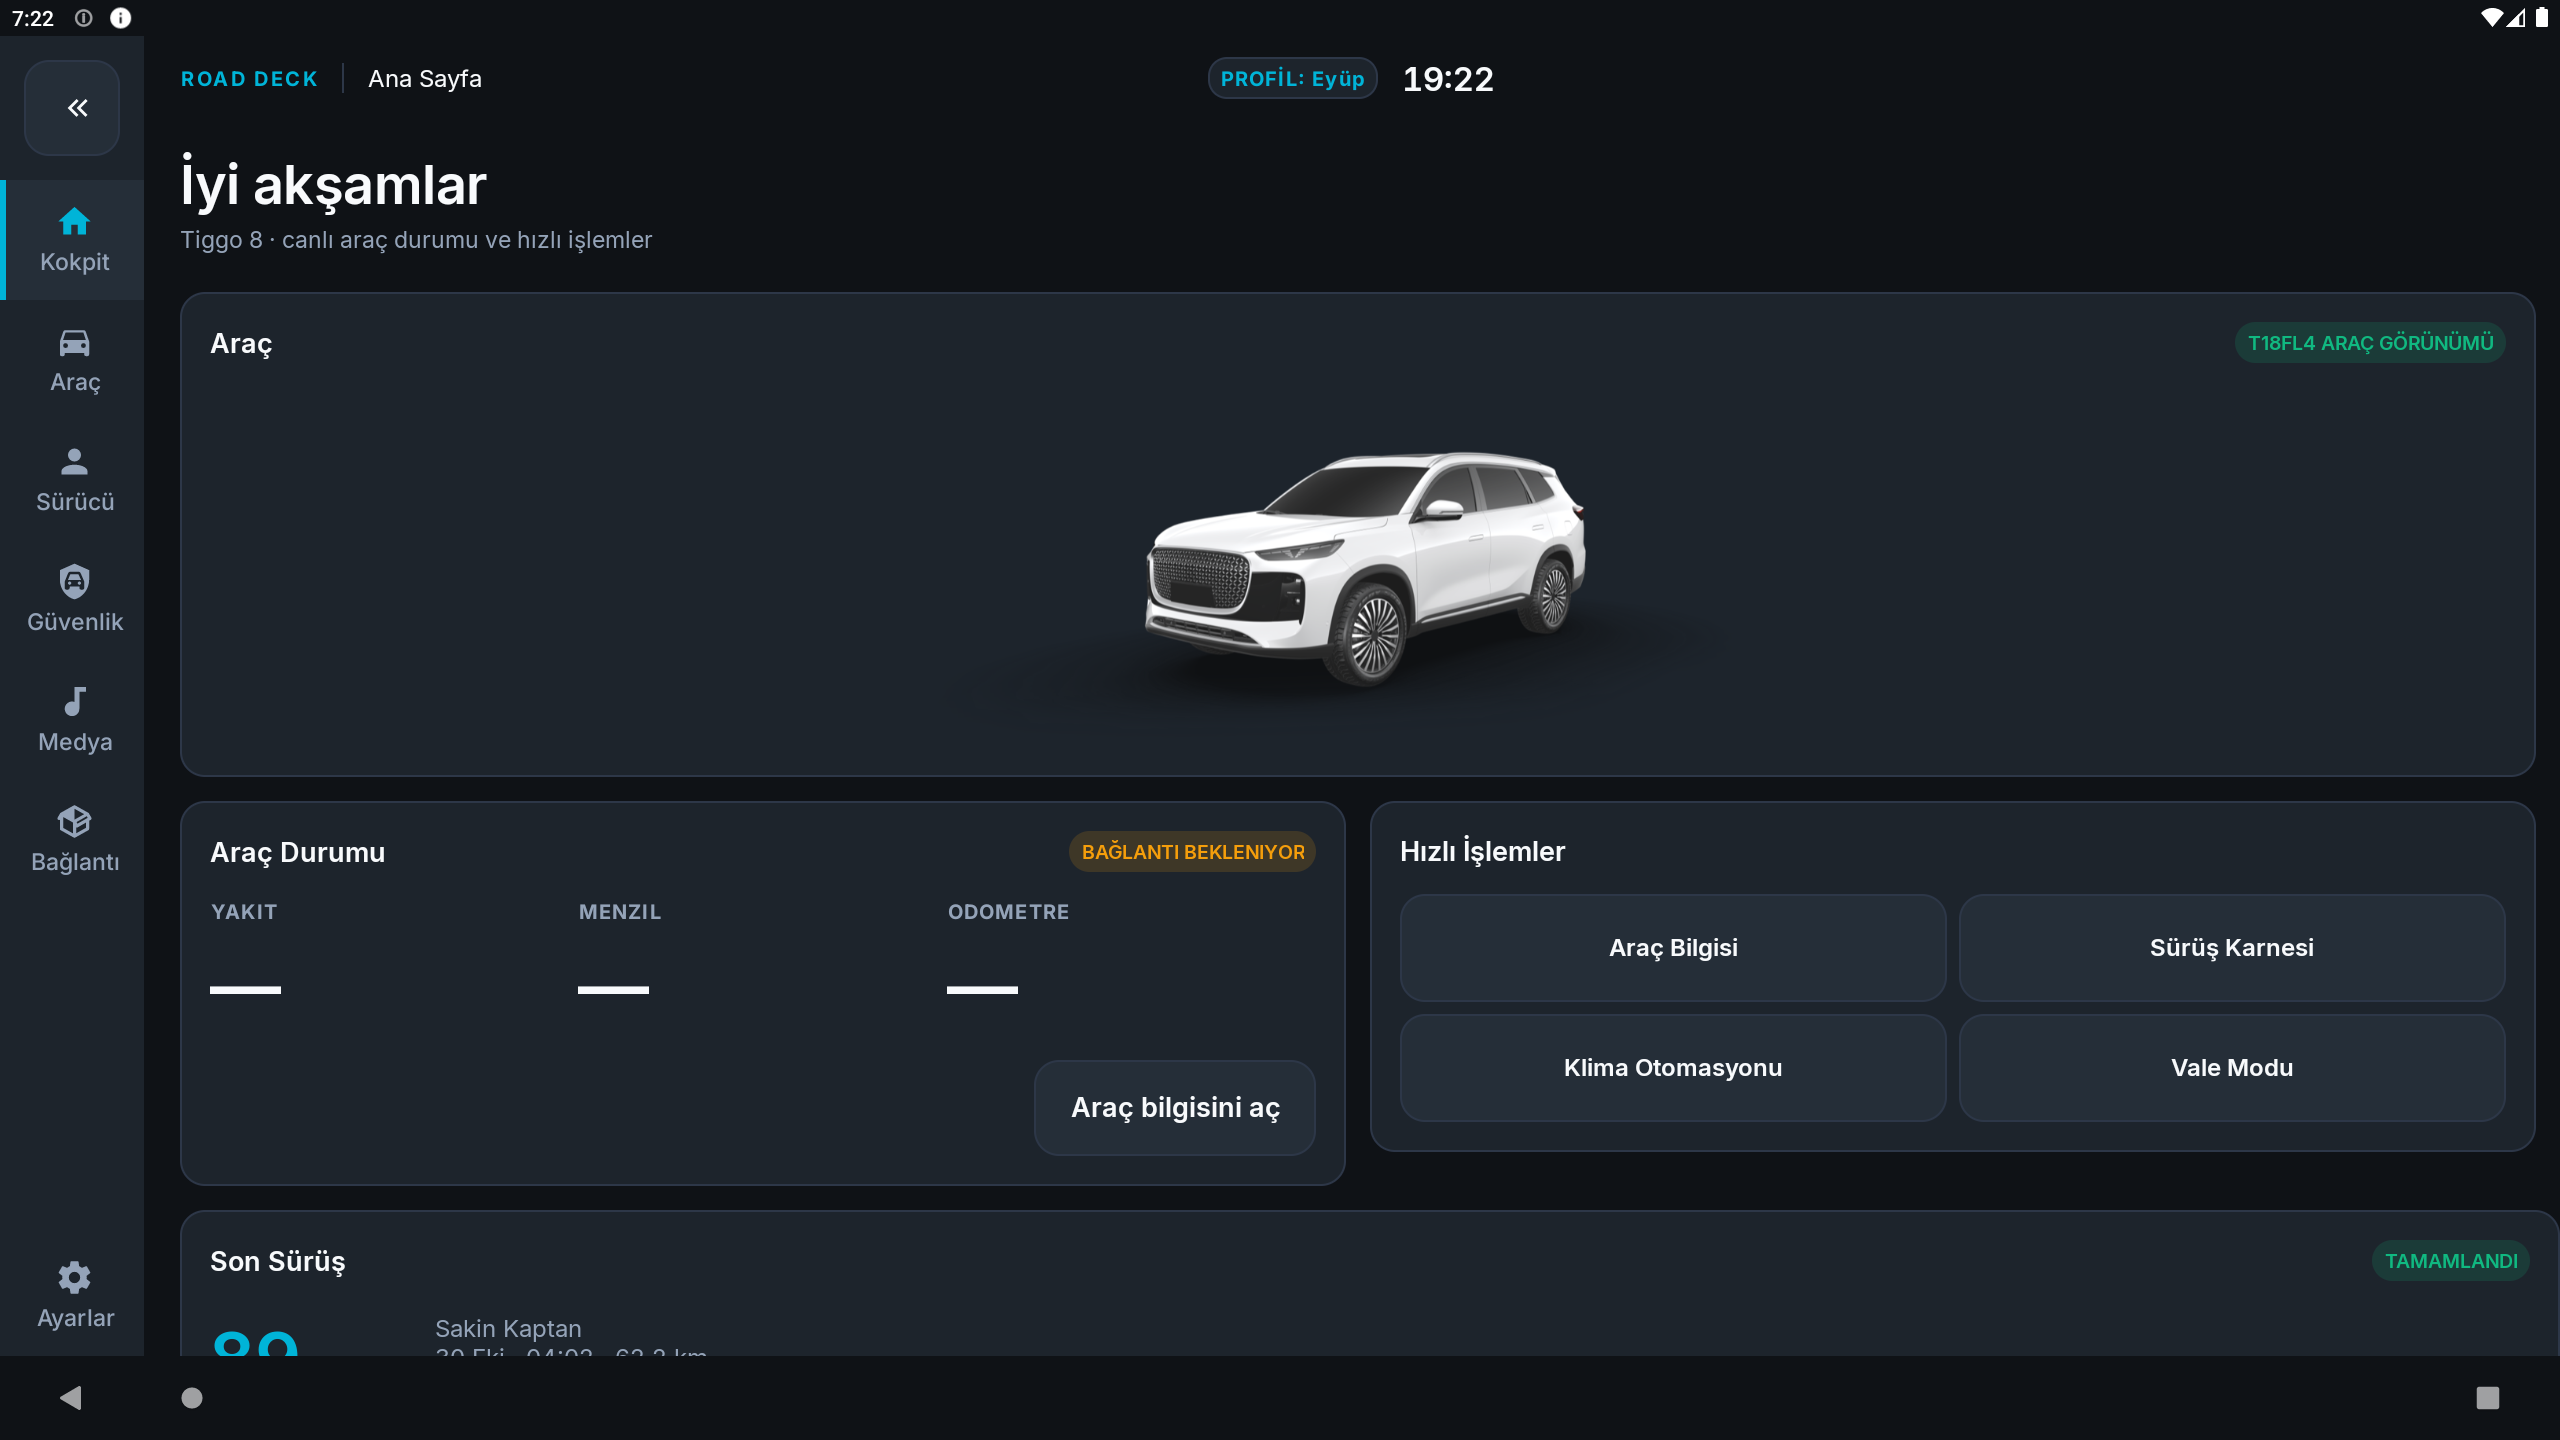
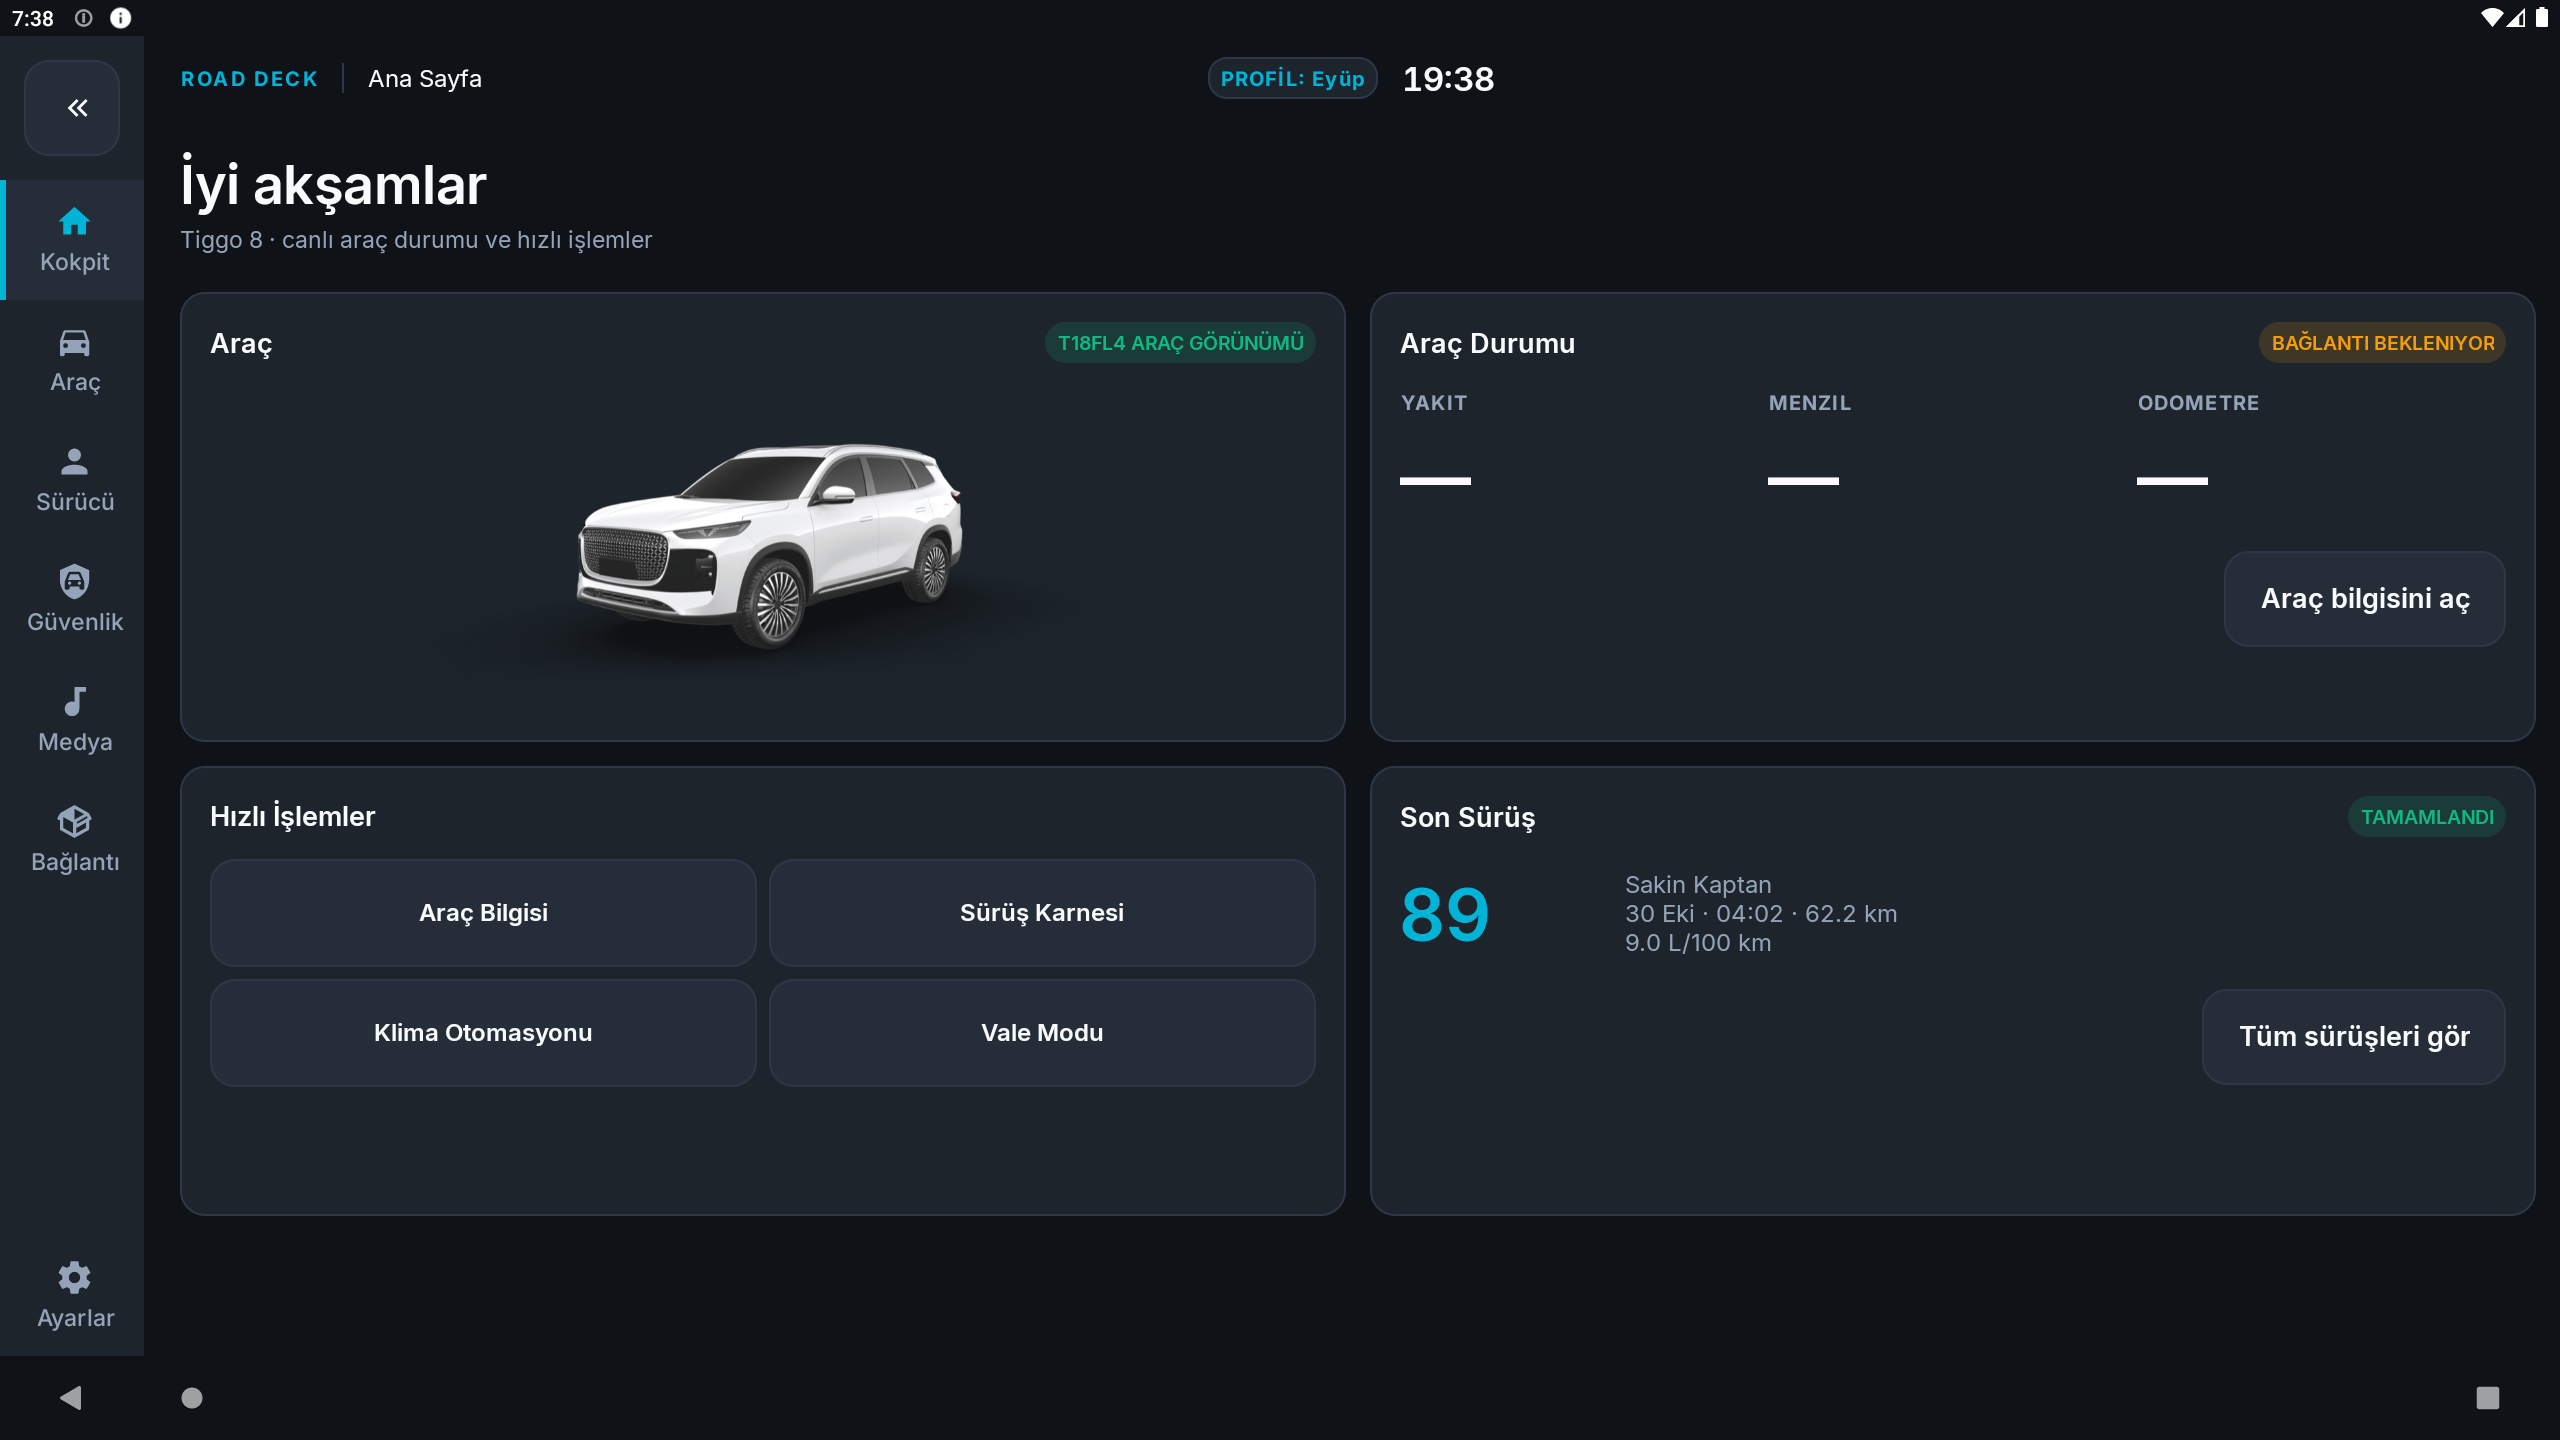
style: kokpit kartlarini esit 2x2 izgaraya al
- Arac, Arac Durumu, Hizli Islemler ve Son Surus ayni genislikte
- Dort kart icin ortak minimum yukseklik
- Arac gorseli yarim kartta dengeli boyuta cekildi

diff --git a/app/src/main/java/com/mapcontrol/ui/builder/HomeTabBuilder.java b/app/src/main/java/com/mapcontrol/ui/builder/HomeTabBuilder.java
@@ -116,10 +116,10 @@ public class HomeTabBuilder implements VehicleMetricsRepository.Listener {
         content.addView(grid, new LinearLayout.LayoutParams(
                 LinearLayout.LayoutParams.MATCH_PARENT, LinearLayout.LayoutParams.WRAP_CONTENT));
 
-        grid.add(buildVehicleVisual(), 8);
+        grid.add(buildVehicleVisual(), 4);
         grid.add(buildVehicleCard(), 4);
         grid.add(buildQuickActions(), 4);
-        grid.addFullWidth(buildLastDriveCard());
+        grid.add(buildLastDriveCard(), 4);
         grid.addFullWidth(buildValetCard());
         grid.addFullWidth(buildOnboardingCard());
     }
@@ -144,7 +144,8 @@ public class HomeTabBuilder implements VehicleMetricsRepository.Listener {
 
     private CockpitCard buildVehicleVisual() {
         CockpitCard card = new CockpitCard(context,
-                context.getString(R.string.ck_home_vehicle_visual)).span(8);
+                context.getString(R.string.ck_home_vehicle_visual)).span(4);
+        card.setMinimumHeight(dp(300));
         card.status(StatusBadge.nominal(context, context.getString(R.string.ck_home_vehicle_visual_hint)));
         vehicleView = new android.widget.ImageView(context);
         vehicleView.setImageResource(R.drawable.t18_vehicle);
@@ -156,12 +157,13 @@ public class HomeTabBuilder implements VehicleMetricsRepository.Listener {
         vehicleView.animate().alpha(1f).scaleX(1f).scaleY(1f).setDuration(320)
                 .setInterpolator(new android.view.animation.DecelerateInterpolator()).start();
         card.addContent(vehicleView, new LinearLayout.LayoutParams(
-                LinearLayout.LayoutParams.MATCH_PARENT, CockpitTokens.dp(context, 240)));
+                LinearLayout.LayoutParams.MATCH_PARENT, CockpitTokens.dp(context, 210)));
         return card;
     }
 
     private CockpitCard buildVehicleCard() {
         CockpitCard card = new CockpitCard(context, context.getString(R.string.ck_home_vehicle_card)).span(4);
+        card.setMinimumHeight(dp(300));
         statusBadge = StatusBadge.neutral(context, context.getString(R.string.ck_home_connecting));
         card.status(statusBadge);
 
@@ -187,6 +189,7 @@ public class HomeTabBuilder implements VehicleMetricsRepository.Listener {
 
     private CockpitCard buildQuickActions() {
         CockpitCard card = new CockpitCard(context, context.getString(R.string.ck_home_quick)).span(4);
+        card.setMinimumHeight(dp(300));
         LinearLayout row1 = new LinearLayout(context);
         row1.setOrientation(LinearLayout.HORIZONTAL);
         row1.addView(quick(context.getString(R.string.ck_home_vehicle_info), TAB_VEHICLE_INFO, context.getString(R.string.ck_home_vehicle_info)),
@@ -282,7 +285,8 @@ public class HomeTabBuilder implements VehicleMetricsRepository.Listener {
 
     private CockpitCard buildLastDriveCard() {
         CockpitCard card = new CockpitCard(context,
-                context.getString(R.string.ck_home_last_drive)).span(8);
+                context.getString(R.string.ck_home_last_drive)).span(4);
+        card.setMinimumHeight(dp(300));
         DrivingSessionRecorder recorder = DrivingSessionRecorder.get(context);
         DrivingTrip trip = recorder.isActive() ? recorder.getDisplayTrip() : recorder.getLastTrip();
         if (trip == null) {
